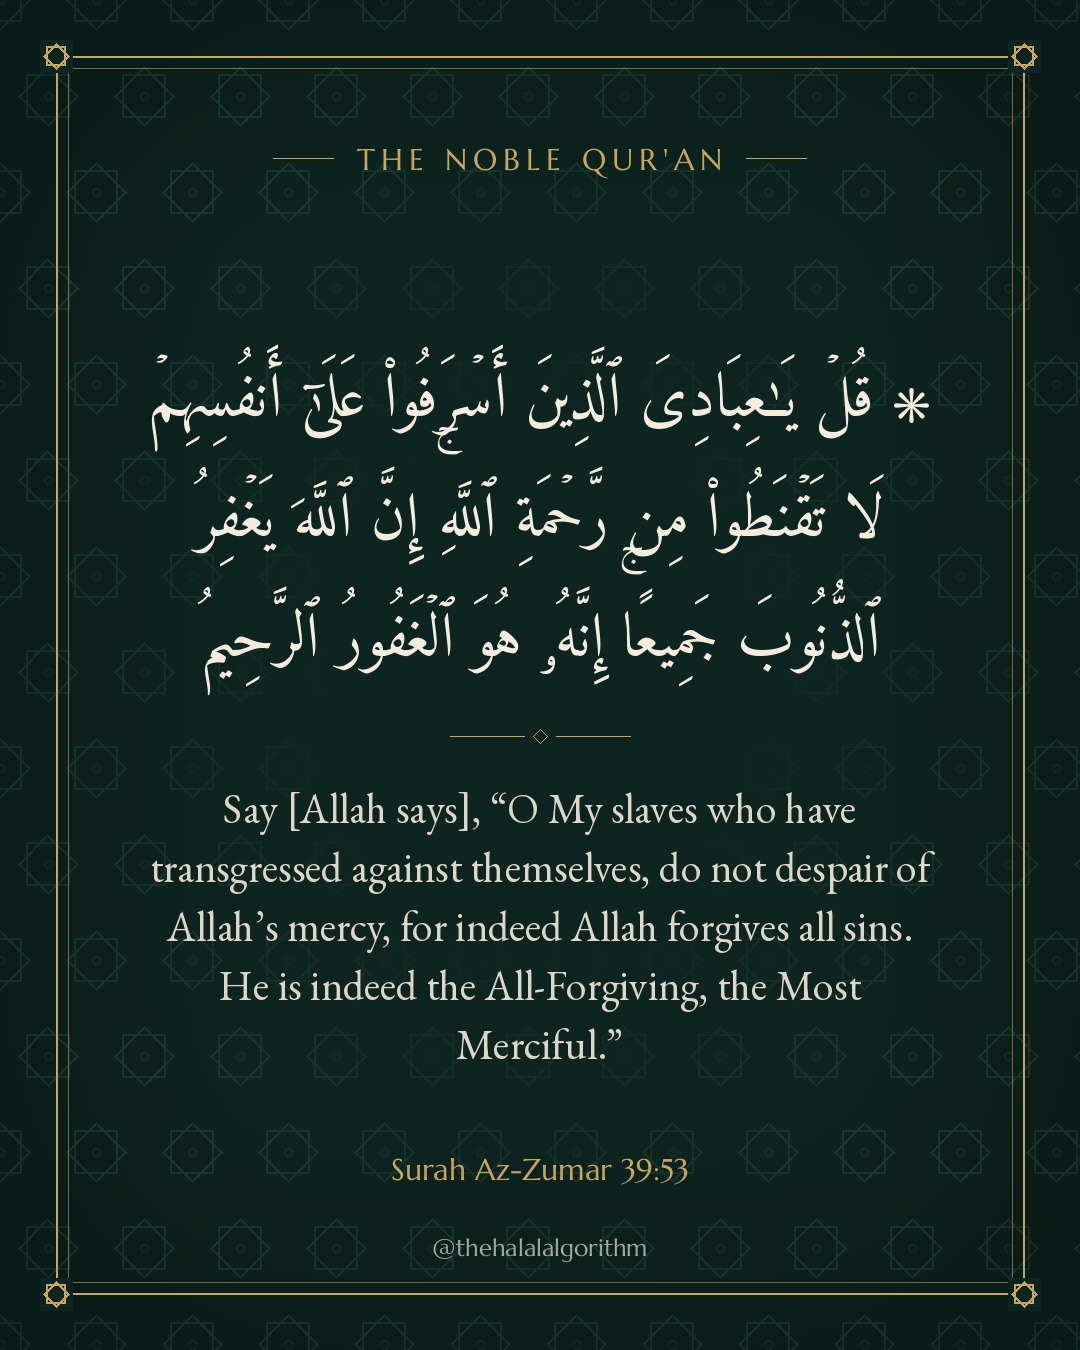
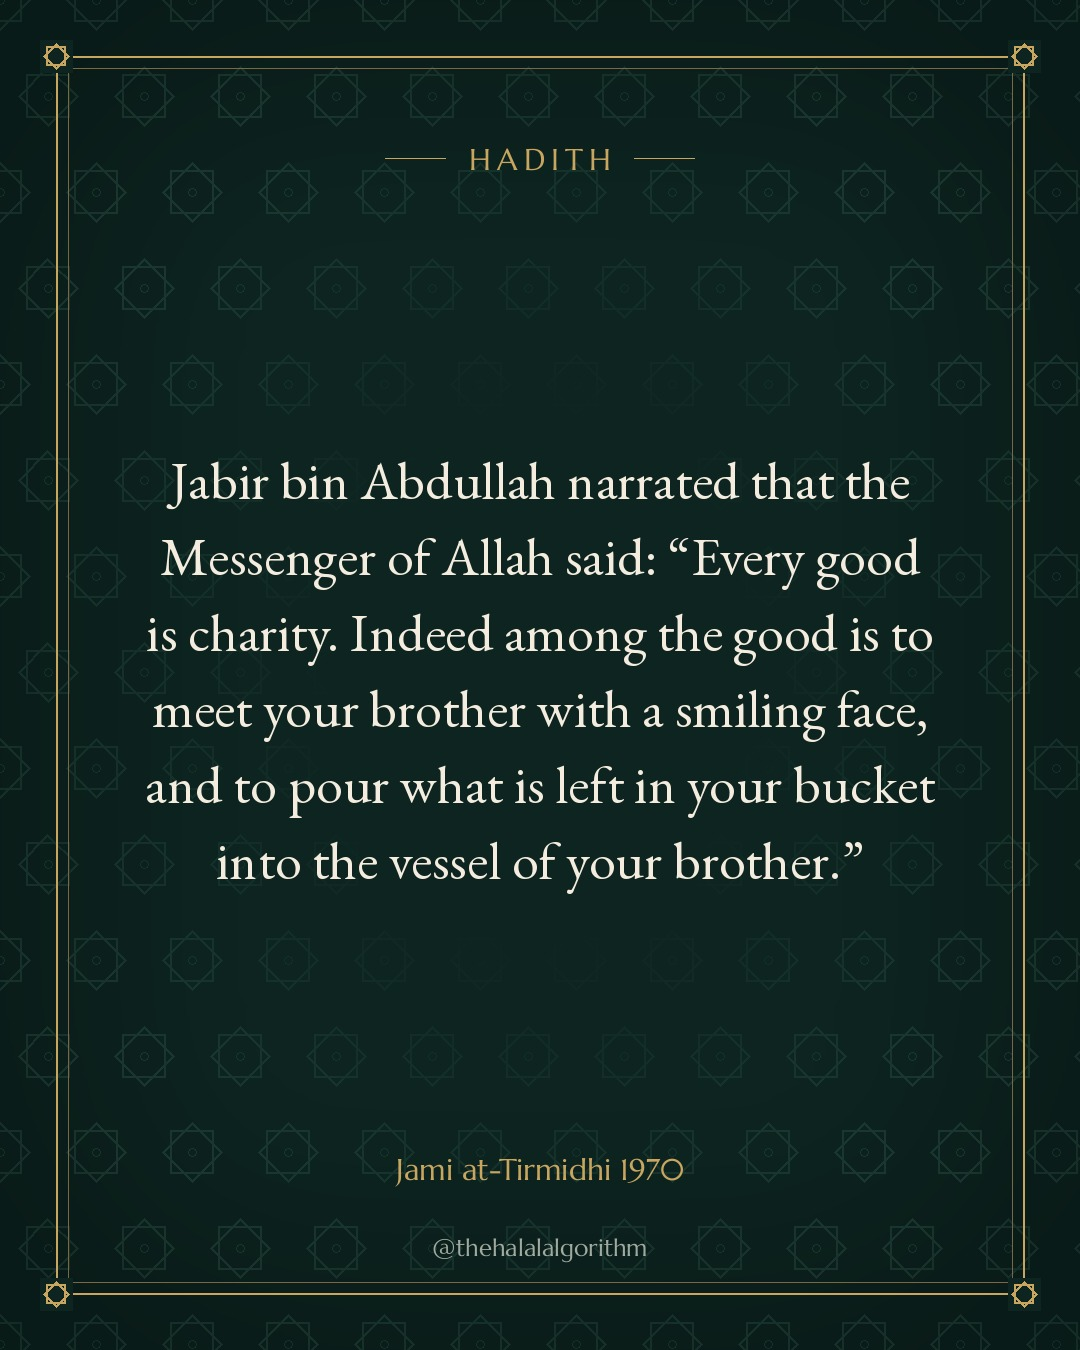
4 typed slots (verse/hadith alternating), caption variety and no-link checks, recaption queued posts
Claude-Session: https://claude.ai/code/session_01FVsssR7m772C3oPqKDMiEB

diff --git a/scripts/enqueue.py b/scripts/enqueue.py
@@ -68,22 +68,50 @@ def queued():
     return items
 
 
-def check_caption(caption, entry):
+def hashtags(caption):
+    return {t.lower() for t in re.findall(r"#\w+", caption)}
+
+
+def closing_line(caption):
+    """The last paragraph before the hashtags (the call to action)."""
+    paras = [p.strip() for p in re.split(r"\n\s*\n", caption) if p.strip()]
+    paras = [p for p in paras if not p.startswith("#")]
+    return paras[-1].lower() if paras else ""
+
+
+def recent_captions(n=8, exclude_slot=None):
+    items = [i for i in queued() if i.get("slot") != exclude_slot]
+    items.sort(key=lambda i: i["publish_at"])
+    return [i["caption"] for i in items[-n:]]
+
+
+def check_caption(caption, entry, exclude_slot=None):
     problems = []
     if len(caption) > 2200:
         problems.append("caption longer than 2200 characters")
-    tags = re.findall(r"#\w+", caption)
-    if len(tags) > 10:
-        problems.append(f"{len(tags)} hashtags (max 10)")
+    tags = hashtags(caption)
+    if not 4 <= len(tags) <= 9:
+        problems.append(f"{len(tags)} hashtags (use 4-9)")
     if entry["reference"].split(" ")[-1] not in caption:
         problems.append(f"caption must cite the reference ({entry['reference']})")
-    if entry["type"] == "quran" and "QuranEnc" not in caption:
-        problems.append("Qur'an caption must credit 'Rowwad Translation Center (QuranEnc.com)'")
-    # Any long quotation in the caption must be copied from the database text.
+    if re.search(r"https?://|www\.|\b[\w-]+\.(com|org|net|io|co)\b", caption, re.I):
+        problems.append("no links or domain names in captions")
+    if re.search(r"translation\s*:|translated by|quranenc|rowwad", caption, re.I):
+        problems.append("do not name the translation source in the caption")
+    # Any quotation in the caption must be copied from the database text.
     src = re.sub(r"\W+", " ", entry["english"]).lower()
     for q in re.findall(r"[“\"]([^”\"]{8,})[”\"]", caption):
         if re.sub(r"\W+", " ", q).lower().strip() not in src:
             problems.append("caption quotes text that is not in the verified source")
+    # Variety: no repeated closing line, no near-identical hashtag sets.
+    recent = recent_captions(exclude_slot=exclude_slot)
+    if closing_line(caption) and closing_line(caption) in {closing_line(c) for c in recent}:
+        problems.append("closing line repeats one of the last 8 captions — phrase it differently")
+    for c in recent[-4:]:
+        other = hashtags(c)
+        if tags and other and len(tags & other) / len(tags | other) > 0.5:
+            problems.append("hashtags too similar to a recent post — rotate them")
+            break
     return problems
 
 
@@ -102,7 +130,7 @@ def cmd_add(a):
         sys.exit("REJECT: hadith grade not sahih/hasan")
 
     caption = Path(a.caption_file).read_text(encoding="utf-8").strip()
-    problems = check_caption(caption, entry)
+    problems = check_caption(caption, entry, exclude_slot=a.slot)
     if problems:
         sys.exit("REJECT caption: " + "; ".join(problems))
 
@@ -114,6 +142,8 @@ def cmd_add(a):
         a.slot = f"{date_str}_manual-{when.strftime('%H%M')}"
     else:
         slot, date_str = slot_by_key(cfg, a.slot)
+        if slot.get("type") and slot["type"] != entry["type"]:
+            sys.exit(f"REJECT: slot {a.slot} takes {slot['type']}, not {entry['type']}")
         base = slot_utc(date_str, slot["time"], slot["tz"])
         if base <= dt.datetime.now(dt.timezone.utc) + dt.timedelta(minutes=20):
             sys.exit("REJECT: slot is in the past or too close")
@@ -148,6 +178,21 @@ def cmd_add(a):
     print(f"QUEUED {stem} {a.entry} -> {img}")
 
 
+def cmd_recaption(a):
+    """Replace the caption of a queued (not yet published) item, with all checks."""
+    path = QUEUE / f"{a.slot}.json"
+    item = json.loads(path.read_text(encoding="utf-8"))
+    if item["status"] != "ready":
+        sys.exit(f"REJECT: {a.slot} is {item['status']}")
+    caption = Path(a.caption_file).read_text(encoding="utf-8").strip()
+    problems = check_caption(caption, get(item["entry_id"]), exclude_slot=a.slot)
+    if problems:
+        sys.exit("REJECT caption: " + "; ".join(problems))
+    item["caption"] = caption
+    path.write_text(json.dumps(item, ensure_ascii=False, indent=2), encoding="utf-8")
+    print(f"RECAPTIONED {a.slot}")
+
+
 def cmd_list(_):
     for i in queued():
         print(f"{i['publish_at']}  {i.get('slot', ''):<28} {i['status']:<13} {i['entry_id']:<24} {i.get('theme', '')}")
@@ -158,7 +203,7 @@ def cmd_slots(a):
     filled = {i.get("slot") for i in queued()}
     for when, key, s in upcoming_slots(cfg, a.days):
         if key not in filled:
-            print(f"EMPTY {key:<28} base {when.isoformat().replace('+00:00', 'Z')}  ({s['time']} {s['tz']})")
+            print(f"EMPTY {key:<28} {s.get('type', 'any'):<7} base {when.isoformat().replace('+00:00', 'Z')}  ({s['time']} {s['tz']})")
 
 
 if __name__ == "__main__":
@@ -170,8 +215,11 @@ if __name__ == "__main__":
     ad.add_argument("--caption-file", required=True)
     ad.add_argument("--theme", default="")
     ad.add_argument("--review", default="")
+    rc = sub.add_parser("recaption")
+    rc.add_argument("--slot", required=True)
+    rc.add_argument("--caption-file", required=True)
     sub.add_parser("list")
     sl = sub.add_parser("slots")
     sl.add_argument("--days", type=int, default=2)
     a = p.parse_args()
-    {"add": cmd_add, "list": cmd_list, "slots": cmd_slots}[a.cmd](a)
+    {"add": cmd_add, "recaption": cmd_recaption, "list": cmd_list, "slots": cmd_slots}[a.cmd](a)

diff --git a/AGENT.md b/AGENT.md
@@ -38,7 +38,9 @@ cd scripts
 3. **Planlayıcı:** Her boş slot için bir tema seç.
    - `python3 calendar_info.py 3` → özel günler (Cuma, Ramazan, Zilhicce vb.) önceliklidir.
    - `history/posted.jsonl` son 20 kayıt ve `notes/strategy.md` (varsa) oku.
-   - `config.yaml` içindeki `mix` oranına uy; son 3 gönderinin temasını tekrarlama.
+   - Her slotun türü `config.yaml` → `slots[].type` ile sabittir (günde ayet / hadis /
+     ayet / hadis). `enqueue.py slots` çıktısında da yazar; başka tür seçme.
+   - Son 3 gönderinin temasını tekrarlama.
    - Tema örnekleri: patience, gratitude, mercy, du'a, kindness to parents, honesty,
      forgiveness, trust in Allah (tawakkul), remembrance (dhikr), good character,
      charity, prayer, Friday reminders, hope after hardship.
@@ -48,22 +50,31 @@ cd scripts
    - Görselde rahat okunacak uzunluk (yaklaşık 320 karakter altı).
    - Parça/eksik metin olmasın ("the above-mentioned hadith" gibi).
    - Seçimden önce `python3 find.py get <id>` ile tam kaydı oku.
-5. **Metin yazarı:** Caption'ı bir dosyaya yaz (ör. `/tmp/caption.txt`). Şablon:
+5. **Metin yazarı:** Caption'ı bir dosyaya yaz (ör. `/tmp/caption.txt`). Yapı:
    ```
    <Kanca cümlesi: en fazla 12 kelime, metinde olmayan iddia yok>
-   (Slot saatine göre ton: öğle slotu kısa ve enerjik, akşam slotu sakin ve tefekküre dönük.)
 
    <2-3 cümlelik sade İngilizce tefekkür; sadece metnin söylediğine dayanır>
 
    — <referans>  (hadis ise: "Sahih al-Bukhari 6018 · Grade: Sahih")
-   <Kur'an ise ayrı satır: "Translation: Rowwad Translation Center (QuranEnc.com)">
 
-   Save this as a reminder and share it with someone who needs it today.
+   <Kapanış cümlesi: her gönderide farklı>
 
-   #islam #<konuya özel 4-7 etiket>
+   <4-9 hashtag>
    ```
-   Metni caption'da tekrar alıntılayacaksan birebir veritabanındaki gibi olmalı.
-   En fazla 2 emoji. En fazla 10 hashtag.
+   - Ton slot saatine uysun: sabah ve öğle kısa ve enerjik, akşam sakin ve tefekküre dönük.
+   - **Link, alan adı ve meal/çeviri kaynağı yazma** (kod bunları reddeder).
+   - **Kapanış cümlesi** son 8 gönderidekilerin hiçbiriyle aynı olamaz (kod kontrol eder).
+     Hep "save this" deme; türleri değiştir: birine göndermeye çağır ("Send this to someone
+     who…"), soru sor ("Which one will you choose?"), yoruma davet et ("Name one…"),
+     kaydetmeye çağır ("Save it for the moment…"), küçük bir eyleme çağır ("Pick one small
+     deed today…"). İçeriğe özel olsun.
+   - **Hashtag'ler:** 4-9 adet; son 4 gönderiyle örtüşme %50'yi geçemez (kod kontrol eder).
+     Her gönderide en fazla 1-2 geniş etiket (#islam, #quran, #hadith gibi), gerisi konuya
+     özel ve orta/niş etiketler (#smileissadaqah, #morningdua, #muslimhabits gibi).
+     Son gönderilerin etiketlerine `python3 enqueue.py list` ve `queue/*.json` ile bak.
+   - Metni caption'da alıntılayacaksan birebir veritabanındaki gibi olmalı. En fazla 2 emoji.
+   - Kuyruktaki bir caption'ı değiştirmek için: `python3 enqueue.py recaption --slot <slot> --caption-file <dosya>`.
 6. **Denetçi (bağımsız alt ajan):** `Agent` aracıyla ayrı bir ajan başlat ve şu
    görevi ver (yerine id, dosya yolu yaz):
    > You are an independent reviewer for an Islamic Instagram page. Run

diff --git a/README.md b/README.md
@@ -22,7 +22,7 @@ veritabanından gelir ve görsele kodla basılır.
 - `jitter_minutes`: her paylaşımın rastgele kaydırma aralığı (±dakika)
 - `dry_run: true`: Instagram'a paylaşmaz; önizlemeyi ana ajandan istersin. Canlıya geçince `false` yap.
 - `paused: true`: acil durdurma
-- `mix`: Kur'an / hadis oranı
+- `slots[].type`: her slota ayet mi hadis mi gireceği (günde ayet / hadis / ayet / hadis)
 
 ## Kurulum
 
@@ -79,8 +79,7 @@ python3 enqueue.py slots --days 2              # boş slotlar
   [fawazahmed0/quran-api](https://github.com/fawazahmed0/quran-api) (Unlicense). Yalnızca Kütüb-i Sitte
   (Buhârî, Müslim, Ebû Dâvûd, Tirmizî, Nesâî, İbn Mâce) kullanılır; Buhârî ve Müslim dışında Al-Albani / Zubair Ali Zai derecelerine göre süzülür; yalnızca sahih ve hasan kalır.
   İngilizce hadis tercümelerinin hakları çevirmenlerine aittir; her gönderide kaynak ve numara belirtilir.
-- Kur'an İngilizce meali: Rowwad Translation Center, [QuranEnc.com](https://quranenc.com) — değiştirmeden
-  ve kaynak belirterek yayımlanabilir; caption'da kaynak zorunludur.
+- Kur'an İngilizce meali: Rowwad Translation Center, [QuranEnc.com](https://quranenc.com) — değiştirmeden yayımlanabilir. QuranEnc şartları kaynağın belirtilmesini istiyor; caption'larda yazılmadığı için profil biyografisinde belirtilmesi önerilir.
 - Arapça Kur'an metni: Khaled Hosny quran-data; font: Amiri Quran.
 - Fontlar: Amiri, Amiri Quran, EB Garamond, Marcellus (SIL Open Font License, `assets/fonts/OFL.txt`).
 - Veritabanını yeniden üretmek için: `scripts/build_data.py`.
